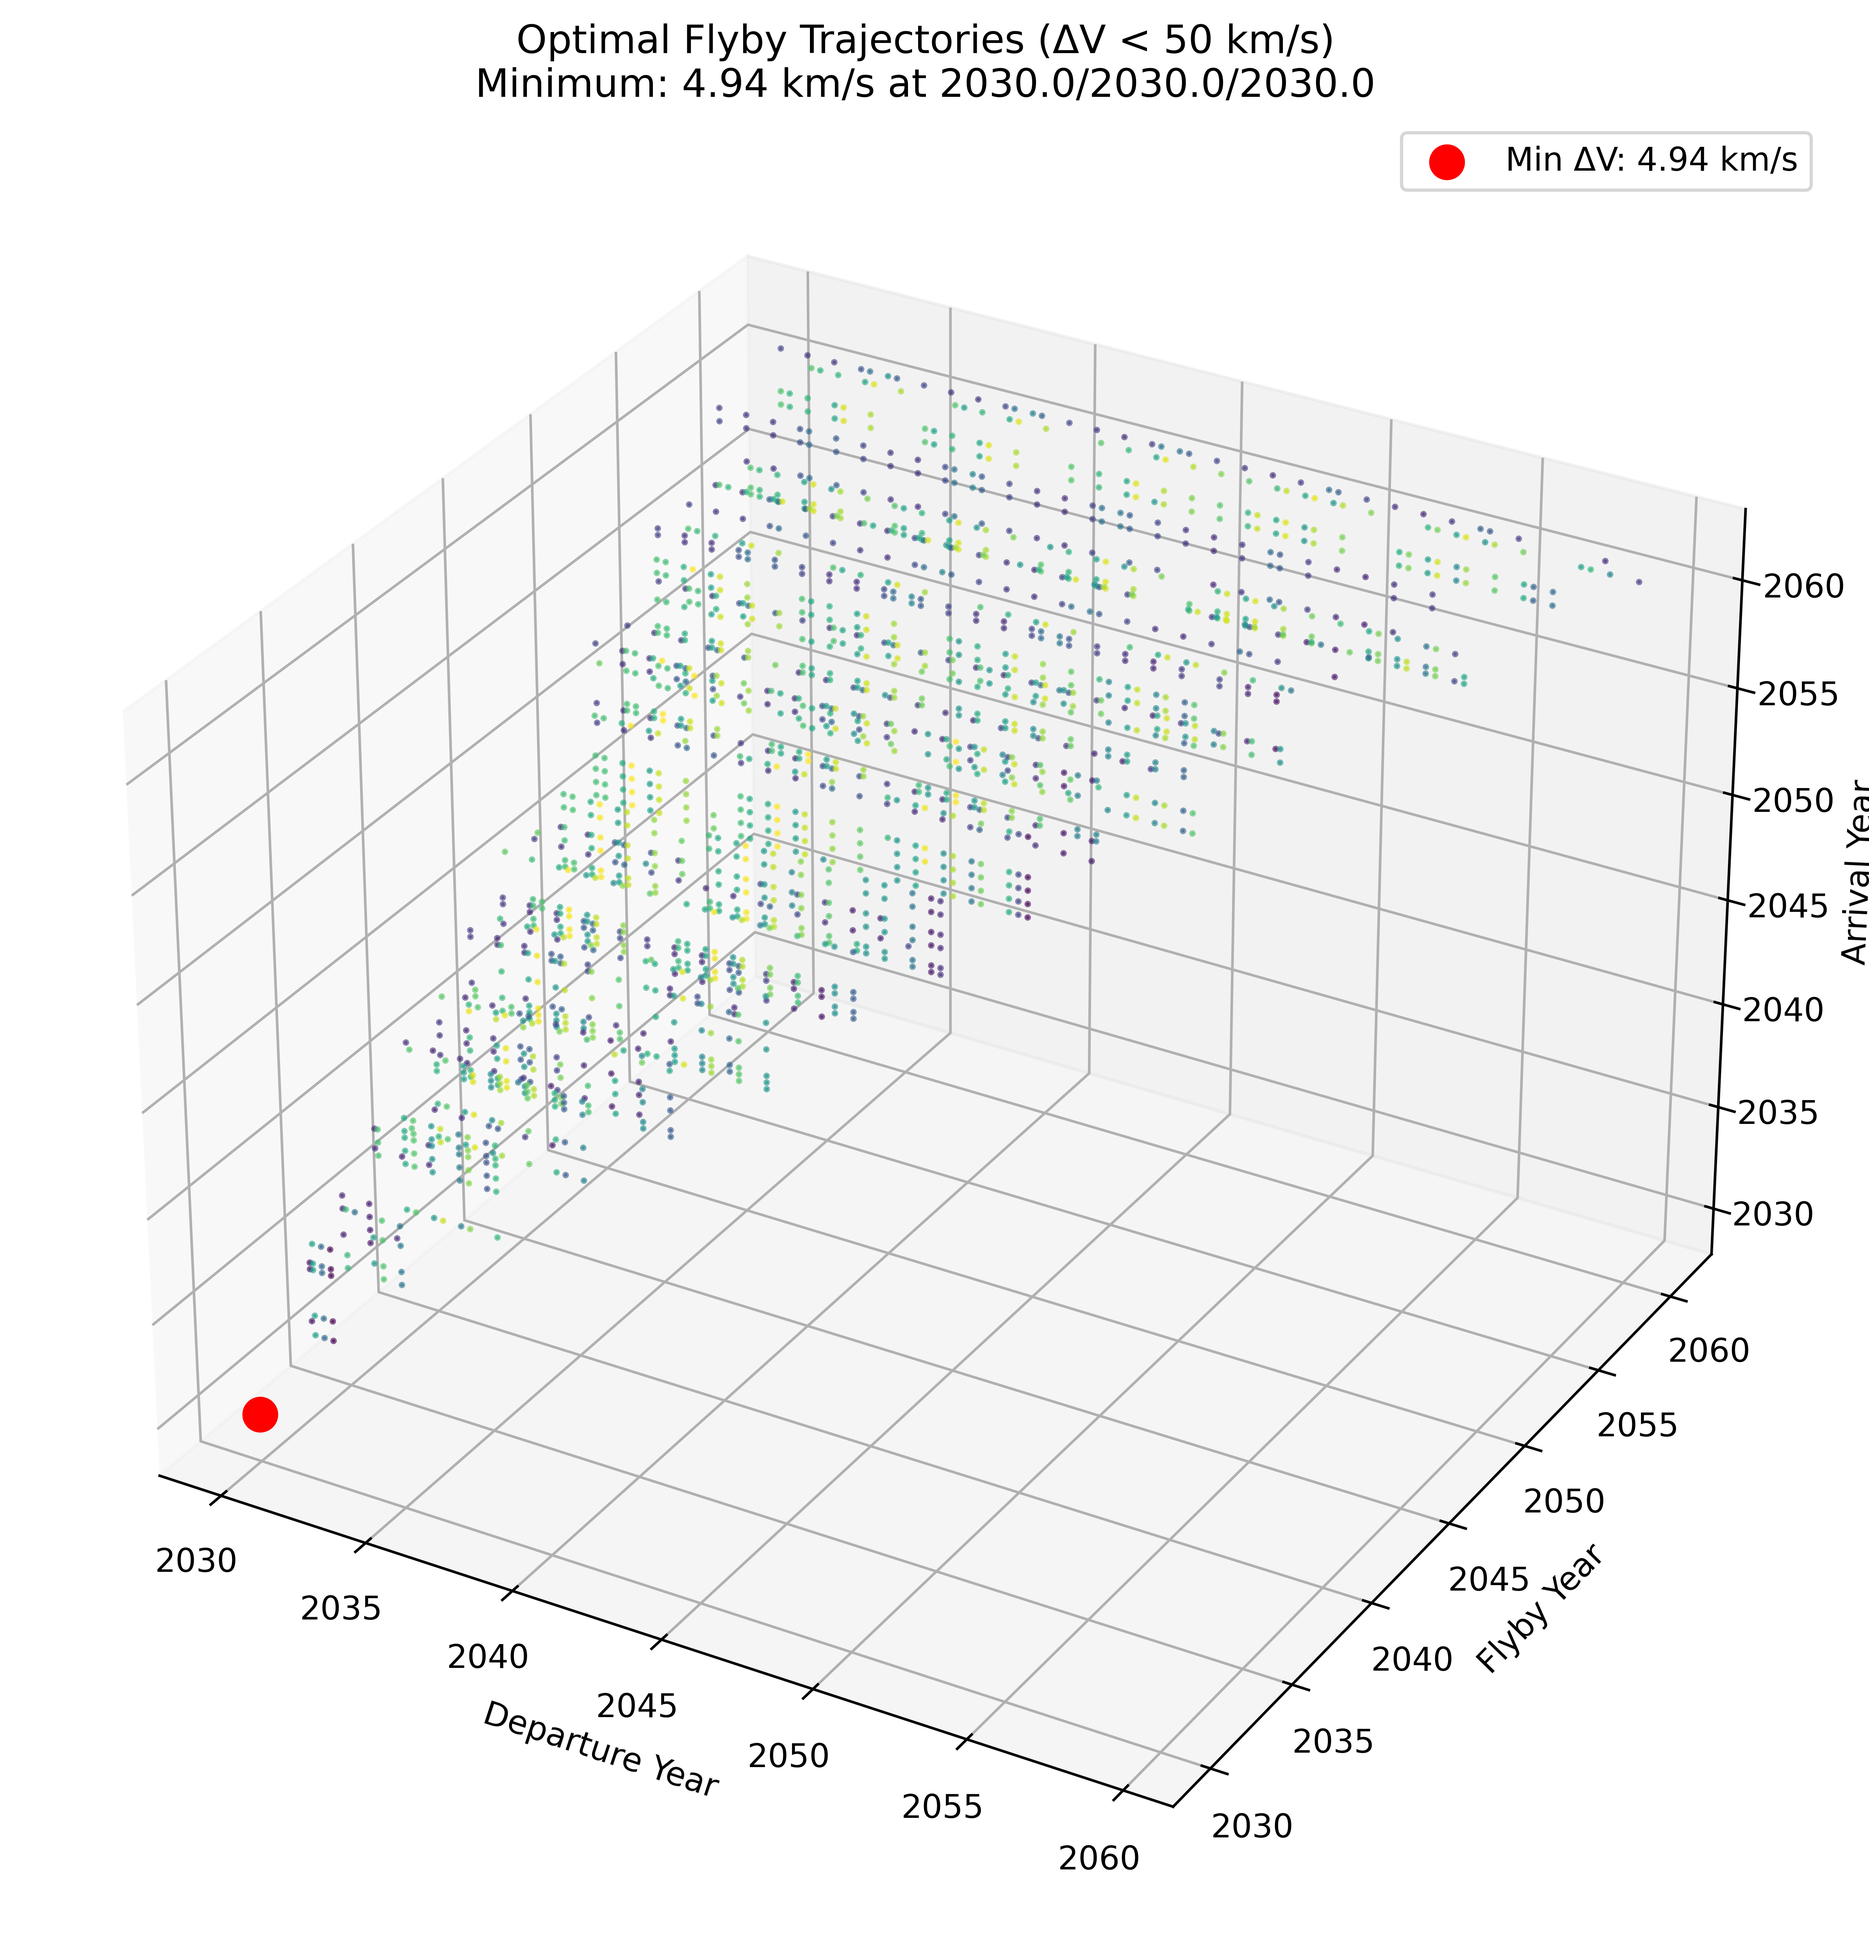
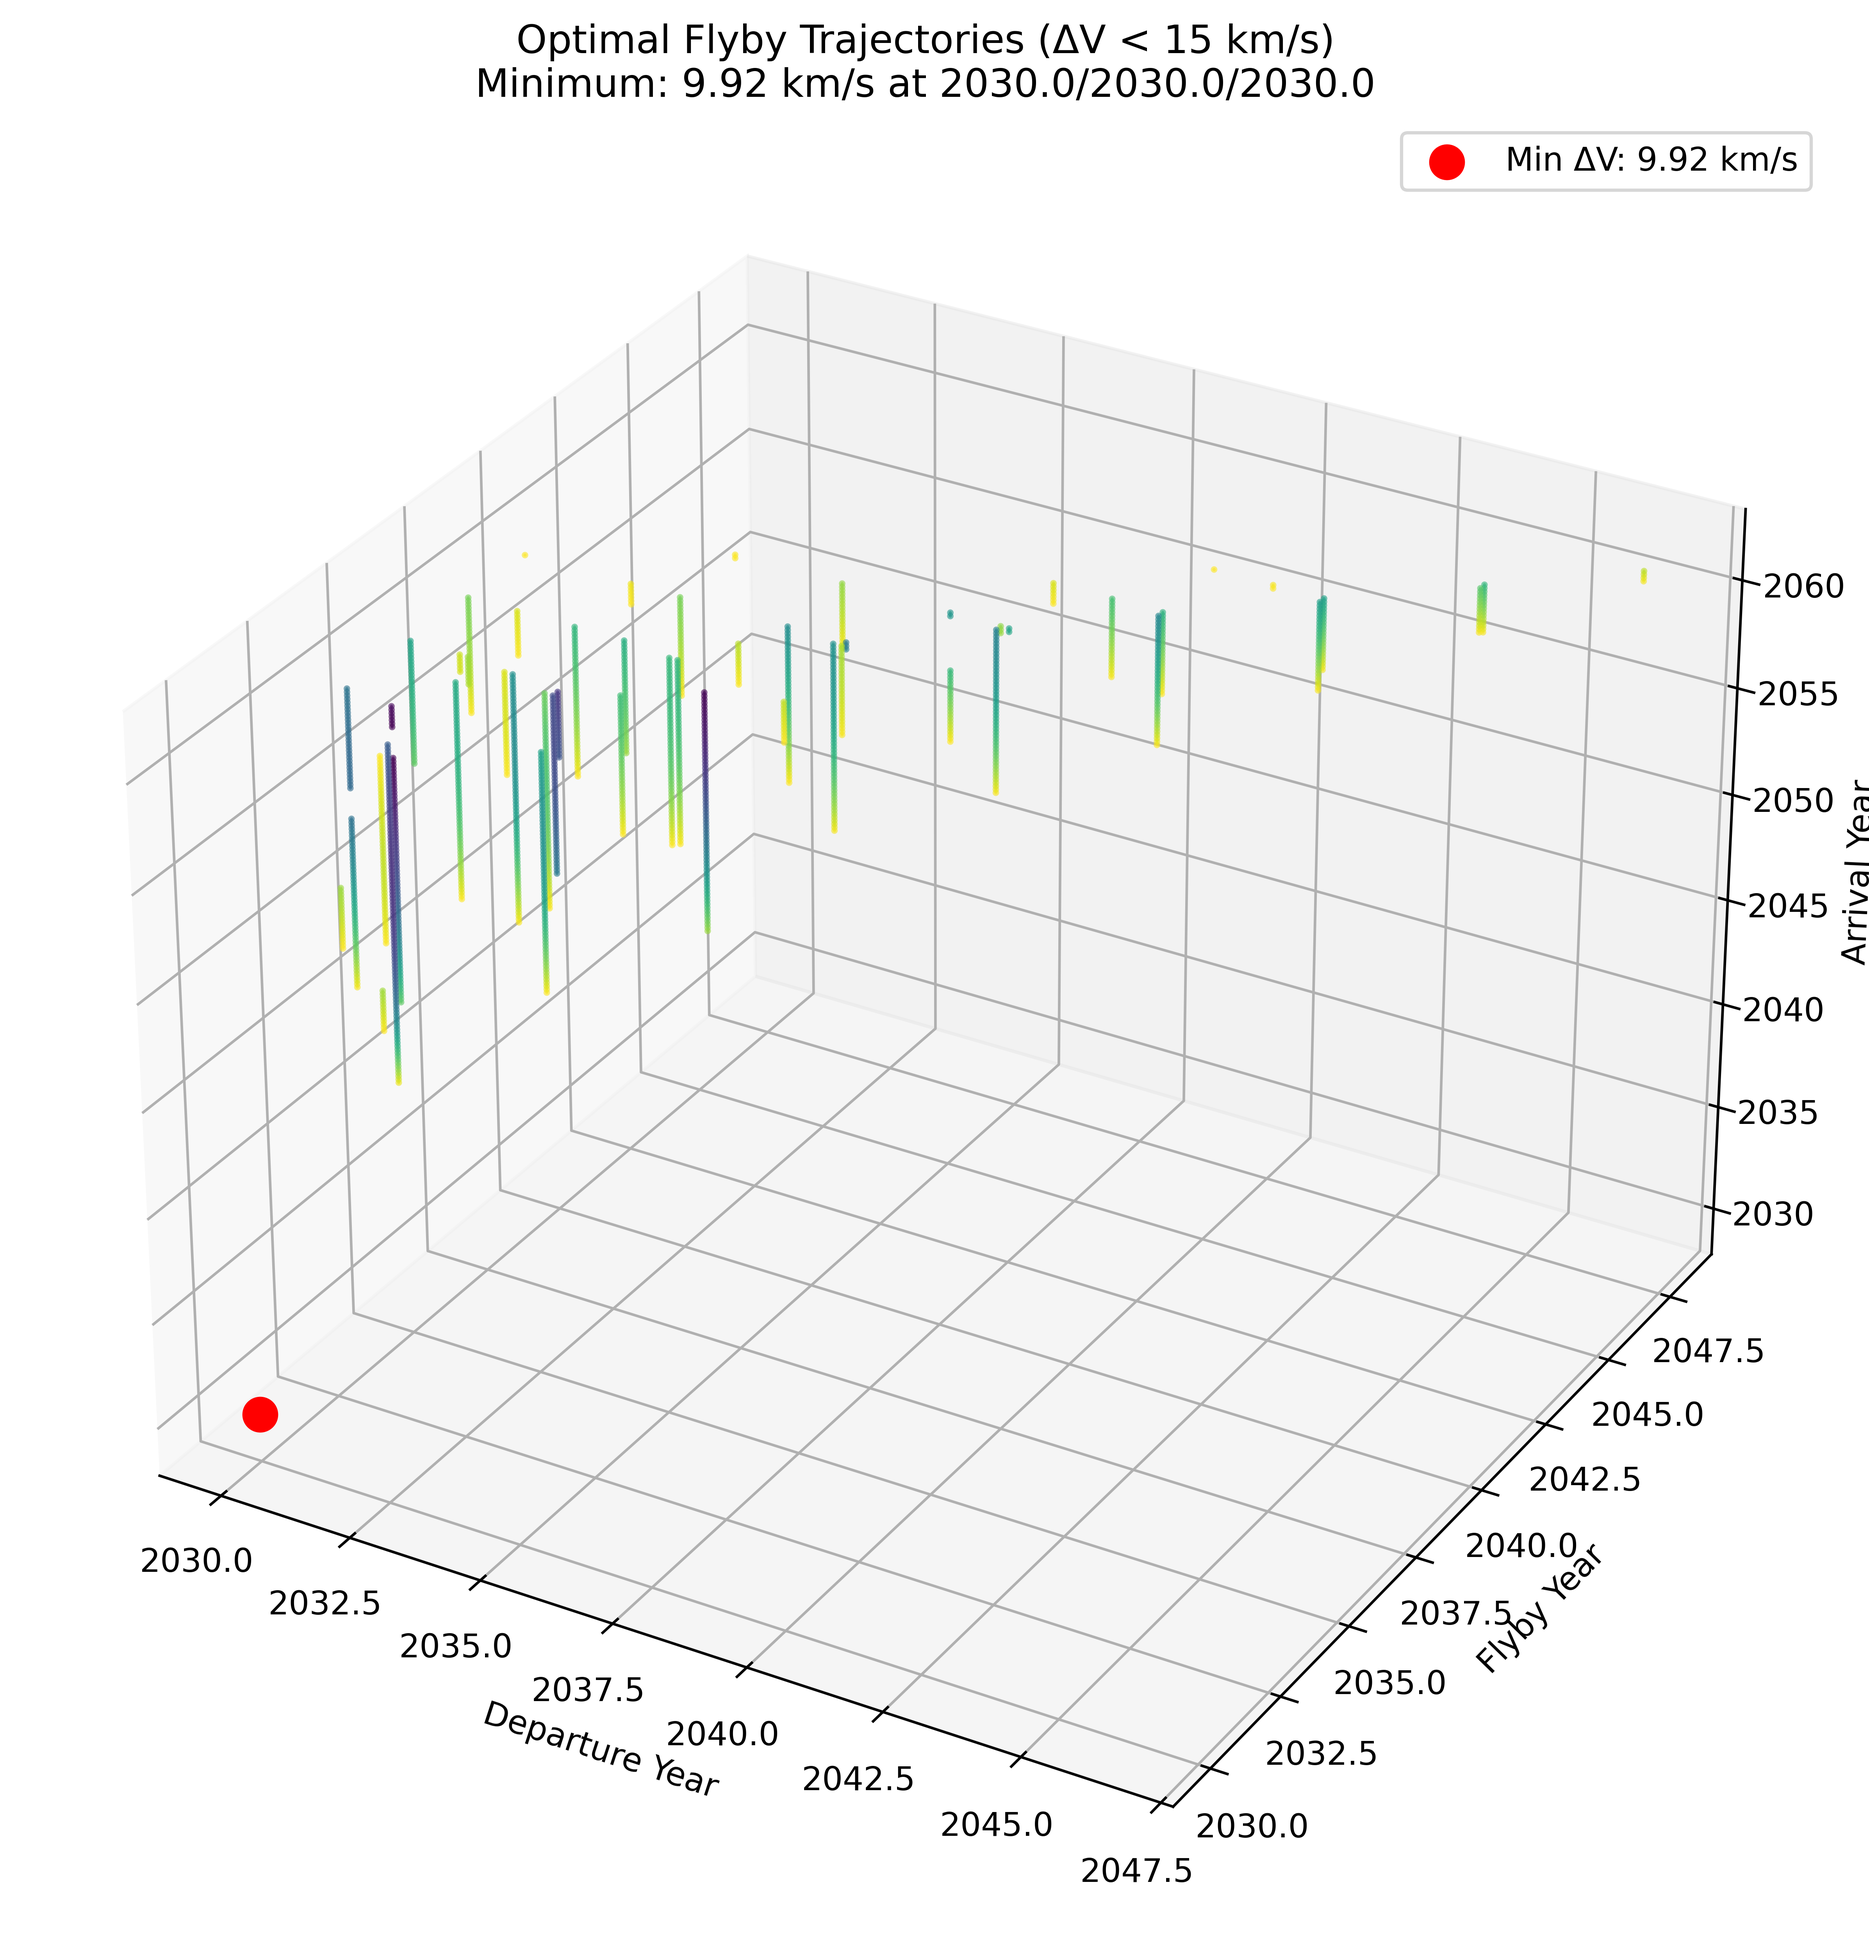
corrected mars radius

diff --git a/src/gpu/gpu_flyby.py b/src/gpu/gpu_flyby.py
@@ -48,7 +48,7 @@ def compute_rp(delta, v_inf_minus, v_inf_plus, mu, rp_guess, max_iter=50, tol=1e
         rp_new = rp - f / df_dr
         
         # Bounds check (Earth example: >6571km = 6371+200km alt)
-        if rp_new < 3590.0 or rp_new > 1e6:
+        if rp_new < 3900.0 or rp_new > 1e6:
             return -1.0
             
         if abs(rp_new - rp) < tol:

diff --git a/src/startFlyby.py b/src/startFlyby.py
@@ -2,7 +2,7 @@
 from gpu.call_flyby import call_flyby
 from utils.plotflyby import save_flyby_plot, get_optimal_dates 
 
-soln, dep, fly, arr, r, v = call_flyby(500, 3, 4, 11)  # Earth->Mars flyby->Jupiter
+soln, dep, fly, arr, r, v = call_flyby(200, 3, 4, 11)  # Earth->Mars flyby->Jupiter
 results = (soln, dep, fly, arr)
 
 # Print optimal dates to console
